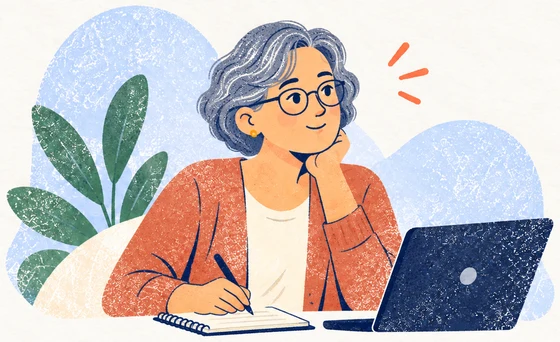
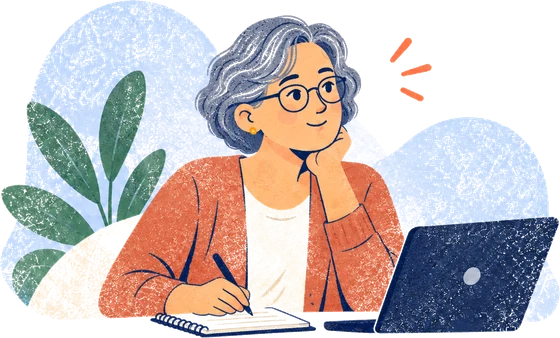
Cartes citation sur fond blanc, guillemets plus grands, corrigé du radar
Portraits et guillemets détourés (fond papier retiré) ; cartes en blanc ;
guillemets agrandis, le fermant collé au dernier mot. Cases vides du
tableau à cocher en pointillés. 1-1-2 · 3.4 : corrigé illustré avec
position par argument, verdict et jauge de score.

Changed region(s): [[0.0, 0.0, 1.0, 1.0], [0.6679, 0.1183, 0.7893, 0.3254]]

diff --git a/1-1-2/css/s3.css b/1-1-2/css/s3.css
@@ -378,7 +378,7 @@ button.k-step-dot { border: 1px solid #c9d3ea; padding: 0; }
    sous « Le client vous dit » et sous la question, progression en pastille
    (points reliés, puis « Besoin 1 sur 3 »). Les dessins ont un fond papier :
    la carte prend sa couleur pour qu’ils s’y fondent. */
-.say-page.is-moment .say-card { grid-template-columns: minmax(200px, 26%) minmax(0, 1fr); padding: 0 44px 0 0; overflow: hidden; background: #faf8f3; } /* la couleur du papier des dessins : ils se fondent dans la carte */
+.say-page.is-moment .say-card { grid-template-columns: minmax(200px, 26%) minmax(0, 1fr); padding: 0 44px 0 0; overflow: hidden; background: #fff; } /* fond blanc : la cliente et les guillemets sont détourés */
 .say-page.is-moment .say-who { border-right: 0; align-self: stretch; overflow: hidden; }
 .say-portrait { width: 100%; height: 100%; min-height: 180px; max-height: 210px; object-fit: cover; object-position: left center; }
 .say-page.is-moment .say-said { padding: 20px 0 20px 18px; }
@@ -399,4 +399,43 @@ img.say-glyph { width: 52px; height: auto; margin: 0; }
   .say-page.is-moment .say-said { padding: 16px 0 22px; }
   .say-page.is-moment .k-head { flex-direction: column; align-items: flex-start; gap: 14px; }
   .say-page.is-moment .say-progress { padding: 10px 18px; gap: 14px; }
+}
+.say-page.is-moment .say-quote { grid-template-columns: 56px minmax(0, max-content) 46px; justify-content: start; }
+@media (max-width: 760px) { .say-page.is-moment .say-quote { grid-template-columns: 34px minmax(0, max-content) 30px; } }
+.say-page.is-moment .say-quote { grid-template-columns: 56px minmax(0, 1fr); }
+.say-page.is-moment .say-quote blockquote img.say-glyph.is-closing { display: inline-block; width: 40px; margin: 0 0 0 10px; vertical-align: -.45em; }
+@media (max-width: 760px) { .say-page.is-moment .say-quote { grid-template-columns: 34px minmax(0, 1fr); } .say-page.is-moment .say-quote blockquote img.say-glyph.is-closing { width: 28px; margin-left: 6px; } }
+.say-page.is-moment .say-quote { grid-template-columns: 78px minmax(0, 1fr); gap: 10px; }
+.say-page.is-moment img.say-glyph { width: 68px; margin-top: -2px; }
+.say-page.is-moment .say-quote blockquote img.say-glyph.is-closing { width: 50px; margin-left: 12px; vertical-align: -.2em; }
+@media (max-width: 760px) { .say-page.is-moment .say-quote { grid-template-columns: 46px minmax(0, 1fr); } .say-page.is-moment img.say-glyph { width: 42px; } .say-page.is-moment .say-quote blockquote img.say-glyph.is-closing { width: 32px; } }
+
+/* 3.4 · corrigé du radar de dérive */
+.drv-review { padding: 22px 26px; display: grid; gap: 10px; }
+.drv-row { display: grid; grid-template-columns: minmax(0, 1fr) 130px 130px minmax(220px, 26%); gap: 0; align-items: stretch; border-radius: 14px; background: #fff; box-shadow: 0 4px 14px rgb(20 40 100 / 6%); }
+.drv-head { background: none; box-shadow: none; align-items: end; }
+.drv-head > span:first-child { padding: 0 18px 10px; font-weight: 800; font-size: 1.1rem; color: var(--navy); }
+.drv-col { display: grid; justify-items: center; gap: 2px; padding: 12px 6px; border-radius: 12px 12px 0 0; text-align: center; }
+.drv-col strong { color: var(--navy); } .drv-col small { font-size: .78rem; color: var(--muted); }
+.drv-col .icon { width: 26px; height: 26px; padding: 4px; border-radius: 50%; color: #fff; }
+.drv-col.is-fit { background: #e9f6ee; } .drv-col.is-fit .icon { background: #1f9a62; }
+.drv-col.is-drift { background: #fdeeec; } .drv-col.is-drift .icon { background: #e5604c; }
+.drv-arg { display: grid; grid-template-columns: 44px minmax(0, 1fr); gap: 16px; align-items: center; padding: 16px 18px; }
+.drv-arg strong { display: block; color: var(--navy); } .drv-arg small { display: block; margin-top: 3px; color: #4f5b82; line-height: 1.45; }
+.drv-n { display: grid; place-items: center; width: 40px; height: 40px; border-radius: 50%; font-weight: 800; }
+.drv-row.is-ok .drv-n { background: #e2f4ea; color: #17794f; } .drv-row.is-ko .drv-n { background: #fde3de; color: #d6452f; }
+.drv-cell { display: grid; place-items: center; border-left: 1px solid #edf0f6; }
+.drv-mark { display: grid; place-items: center; width: 44px; height: 44px; border: 1.5px solid #cdd5e4; border-radius: 50%; }
+.drv-mark.is-right { border: 0; border-radius: 12px; background: #e2f4ea; color: #17794f; }
+.drv-mark.is-wrong { border: 0; border-radius: 12px; background: #fde3de; color: #d6452f; }
+.drv-mark.is-expected { border: 2px dashed #3aa874; color: #17794f; }
+.drv-verdict { margin: 8px; padding: 12px 16px; border-radius: 12px; line-height: 1.4; }
+.drv-verdict strong { display: block; } .drv-verdict.is-ok { background: #e9f6ee; } .drv-verdict.is-ok strong { color: #17794f; }
+.drv-verdict.is-ko { background: #fdeeec; } .drv-verdict.is-ko strong { color: #d6452f; }
+.drv-score { display: flex; align-items: center; gap: 22px; flex-wrap: wrap; margin-top: 10px; padding: 16px 20px; border-left: 3px solid #d5e0f6; }
+.drv-score small { display: block; color: var(--muted); } .drv-score strong { font-size: 2rem; color: var(--navy); }
+.drv-score-symbol { display: grid; place-items: center; width: 64px; height: 64px; border-radius: 50%; background: #e6eefc; color: var(--accent); }
+.drv-score .k-muted { margin-left: auto; max-width: 300px; }
+@media (max-width: 900px) {
+  .drv-row { grid-template-columns: minmax(0, 1fr) 80px 80px; } .drv-verdict { grid-column: 1 / -1; } .drv-head > span:last-child { display: none; }
 }

diff --git a/1-1-2/js/screens/s3-3-4.js b/1-1-2/js/screens/s3-3-4.js
@@ -25,8 +25,44 @@
     </div>`;
   }
 
+  /* Le corrigé, d'après la maquette : en-tête « Corrigé » illustré, puis
+   * pour chaque argument sa position (votre choix coché vert s'il est juste,
+   * barré rouge sinon ; la bonne case en pointillés verts si vous l'avez
+   * manquée) et un verdict à droite. La jauge du score clôt le tableau. */
+  function reviewScreen(score) {
+    const label = id => (content.columns.find(c => c.id === id) || {}).label || '';
+    const mark = (i, column) => {
+      const chosen = ex.value(`row${i}`) === column.id;
+      const expected = answers[i] === column.id;
+      if (chosen) return `<span class="drv-mark ${expected ? 'is-right' : 'is-wrong'}">${icon(expected ? 'check' : 'close', { size: 22, strokeWidth: 3, label: expected ? 'votre choix, juste' : 'votre choix, faux' })}</span>`;
+      if (expected) return `<span class="drv-mark is-expected">${icon('check', { size: 18, strokeWidth: 3, label: 'réponse attendue' })}</span>`;
+      return '<span class="drv-mark"></span>';
+    };
+    return `${kit.answerReview({ subtitle: 'Voici l’analyse de chaque argument, avec la bonne position et une explication.', items: [] }).replace('<ol class="arv-list"></ol>', '')}
+      <section class="k-panel drv-review">
+        <div class="drv-row drv-head"><span>Arguments du commercial</span>${content.columns.map(c => `<span class="drv-col is-${esc(c.id)}">${icon(c.id === 'fit' ? 'check' : 'close', { size: 16, strokeWidth: 3 })}<strong>${esc(c.label)}</strong><small>${esc(c.sub)}</small></span>`).join('')}<span></span></div>
+        ${rows.map((row, i) => {
+          const ok = ex.value(`row${i}`) === answers[i];
+          return `<div class="drv-row ${ok ? 'is-ok' : 'is-ko'}">
+            <div class="drv-arg"><span class="drv-n">${i + 1}</span><div><strong>${esc(row.text)}</strong><small>${esc(row.why)}</small></div></div>
+            ${content.columns.map(c => `<span class="drv-cell">${mark(i, c)}</span>`).join('')}
+            <div class="drv-verdict ${ok ? 'is-ok' : 'is-ko'}"><strong>${ok ? 'Bon positionnement' : 'À repositionner'}</strong><span>${ok ? `Vous l’avez bien classé : « ${esc(label(answers[i]))} ».` : `Il fallait le classer : « ${esc(label(answers[i]))} ».`}</span></div>
+          </div>`;
+        }).join('')}
+        <div class="drv-score">
+          <span class="drv-score-symbol">${icon('target', { size: 34 })}</span>
+          <div><small>Votre score de dérive</small><strong>${score} / ${rows.length}</strong></div>
+          <span class="drift-gauge" aria-hidden="true">${rows.map((_, i) => `<span class="${i < score ? 'is-on' : ''}"></span>`).join('')}</span>
+          <span class="k-muted">Le score correspond au nombre d’arguments correctement analysés.</span>
+        </div>
+      </section>
+      ${core.feedbackBox()}<div class="k-utility">${kit.reset()}</div>
+    </div>`;
+  }
+
   function screen() {
     const reviewing = ex.reviewing();
+    if (reviewing) return reviewScreen(kit.score('row', answers));
     const score = reviewing ? kit.score('row', answers) : null;
     return `<div class="k-page">
       ${kit.head({ eyebrow: content.eyebrow, title: content.title, subtitle: content.subtitle, aside: counter() })}

diff --git a/1-1-2/css/extras.css b/1-1-2/css/extras.css
@@ -440,3 +440,17 @@ body .topbar, body.is-briefing .topbar { margin: 0; border: 0; border-bottom: 1p
   .client-card-quote { grid-template-columns: 34px minmax(0, 1fr) 30px; }
   .client-card-mark { width: 34px; } .client-card-mark.is-closing { width: 32px; margin-bottom: -18px; }
 }
+/* Tableau à cocher (kit.matrix) : une case vide se voit, en pointillés. */
+#main .k-matrix .k-box:not(.is-checked):not(.is-answer):not(.is-wrong) { border: 1.5px dashed #9aabd1 !important; box-shadow: none !important; background: #fff; }
+#main .k-matrix label:hover .k-box:not(.is-checked) { border-color: var(--accent) !important; }
+.client-card-quote { grid-template-columns: 56px minmax(0, max-content) 46px; justify-content: start; } /* le guillemet fermant suit le texte, même court */
+@media (max-width: 760px) { .client-card-quote { grid-template-columns: 34px minmax(0, max-content) 30px; } }
+/* Le guillemet fermant est dans le texte, collé au dernier mot. */
+.client-card-quote { grid-template-columns: 56px minmax(0, 1fr); }
+.client-card-quote blockquote .client-card-mark.is-closing { display: inline-block; width: 40px; margin: 0 0 0 10px; vertical-align: -.45em; }
+@media (max-width: 760px) { .client-card-quote { grid-template-columns: 34px minmax(0, 1fr); } .client-card-quote blockquote .client-card-mark.is-closing { width: 28px; margin-left: 6px; } }
+/* Guillemets plus présents (dessins recadrés au ras). */
+.client-card-quote { grid-template-columns: 78px minmax(0, 1fr); gap: 10px; }
+.client-card-mark { width: 68px; margin-top: -2px; }
+.client-card-quote blockquote .client-card-mark.is-closing { width: 50px; margin-left: 12px; vertical-align: -.2em; }
+@media (max-width: 760px) { .client-card-quote { grid-template-columns: 46px minmax(0, 1fr); } .client-card-mark { width: 42px; } .client-card-quote blockquote .client-card-mark.is-closing { width: 32px; } }

diff --git a/1-1-3/css/extras.css b/1-1-3/css/extras.css
@@ -421,3 +421,17 @@ body .topbar, body.is-briefing .topbar { margin: 0; border: 0; border-bottom: 1p
 }
 #main .arv-cell.is-why > svg.icon { width: 34px !important; height: 34px !important; margin: -3px -4px 0; }
 
+/* Tableau à cocher (kit.matrix) : une case vide se voit, en pointillés. */
+#main .k-matrix .k-box:not(.is-checked):not(.is-answer):not(.is-wrong) { border: 1.5px dashed #9aabd1 !important; box-shadow: none !important; background: #fff; }
+#main .k-matrix label:hover .k-box:not(.is-checked) { border-color: var(--accent) !important; }
+.client-card-quote { grid-template-columns: 56px minmax(0, max-content) 46px; justify-content: start; } /* le guillemet fermant suit le texte, même court */
+@media (max-width: 760px) { .client-card-quote { grid-template-columns: 34px minmax(0, max-content) 30px; } }
+/* Le guillemet fermant est dans le texte, collé au dernier mot. */
+.client-card-quote { grid-template-columns: 56px minmax(0, 1fr); }
+.client-card-quote blockquote .client-card-mark.is-closing { display: inline-block; width: 40px; margin: 0 0 0 10px; vertical-align: -.45em; }
+@media (max-width: 760px) { .client-card-quote { grid-template-columns: 34px minmax(0, 1fr); } .client-card-quote blockquote .client-card-mark.is-closing { width: 28px; margin-left: 6px; } }
+/* Guillemets plus présents (dessins recadrés au ras). */
+.client-card-quote { grid-template-columns: 78px minmax(0, 1fr); gap: 10px; }
+.client-card-mark { width: 68px; margin-top: -2px; }
+.client-card-quote blockquote .client-card-mark.is-closing { width: 50px; margin-left: 12px; vertical-align: -.2em; }
+@media (max-width: 760px) { .client-card-quote { grid-template-columns: 46px minmax(0, 1fr); } .client-card-mark { width: 42px; } .client-card-quote blockquote .client-card-mark.is-closing { width: 32px; } }

diff --git a/1-1-1/css/extras.css b/1-1-1/css/extras.css
@@ -319,3 +319,14 @@ body .topbar, body.is-briefing .topbar { margin: 0; border: 0; border-bottom: 1p
   .client-card-quote { grid-template-columns: 34px minmax(0, 1fr) 30px; }
   .client-card-mark { width: 34px; } .client-card-mark.is-closing { width: 32px; margin-bottom: -18px; }
 }
+.client-card-quote { grid-template-columns: 56px minmax(0, max-content) 46px; justify-content: start; } /* le guillemet fermant suit le texte, même court */
+@media (max-width: 760px) { .client-card-quote { grid-template-columns: 34px minmax(0, max-content) 30px; } }
+/* Le guillemet fermant est dans le texte, collé au dernier mot. */
+.client-card-quote { grid-template-columns: 56px minmax(0, 1fr); }
+.client-card-quote blockquote .client-card-mark.is-closing { display: inline-block; width: 40px; margin: 0 0 0 10px; vertical-align: -.45em; }
+@media (max-width: 760px) { .client-card-quote { grid-template-columns: 34px minmax(0, 1fr); } .client-card-quote blockquote .client-card-mark.is-closing { width: 28px; margin-left: 6px; } }
+/* Guillemets plus présents (dessins recadrés au ras). */
+.client-card-quote { grid-template-columns: 78px minmax(0, 1fr); gap: 10px; }
+.client-card-mark { width: 68px; margin-top: -2px; }
+.client-card-quote blockquote .client-card-mark.is-closing { width: 50px; margin-left: 12px; vertical-align: -.2em; }
+@media (max-width: 760px) { .client-card-quote { grid-template-columns: 46px minmax(0, 1fr); } .client-card-mark { width: 42px; } .client-card-quote blockquote .client-card-mark.is-closing { width: 32px; } }

diff --git a/1-1-2/js/screens/s3-3-3.js b/1-1-2/js/screens/s3-3-3.js
@@ -38,7 +38,7 @@
           <div class="say-who" aria-hidden="true"><img class="say-portrait" src="${esc(core.asset('assets/illustrations/s3/say-cliente.webp'))}" alt="" decoding="async"></div>
           <div class="say-said">
             <p class="say-label">Le client vous dit</p>
-            <div class="say-quote"><img class="say-glyph" src="${esc(core.asset('assets/illustrations/s3/say-guillemet-ouvrant.webp'))}" alt="" aria-hidden="true"><blockquote>${esc(needs[i].quote)}</blockquote><img class="say-glyph is-closing" src="${esc(core.asset('assets/illustrations/s3/say-guillemet-fermant.webp'))}" alt="" aria-hidden="true"></div>
+            <div class="say-quote"><img class="say-glyph" src="${esc(core.asset('assets/illustrations/s3/say-guillemet-ouvrant.webp'))}" alt="" aria-hidden="true"><blockquote>${esc(needs[i].quote)}<img class="say-glyph is-closing" src="${esc(core.asset('assets/illustrations/s3/say-guillemet-fermant.webp'))}" alt="" aria-hidden="true"></blockquote></div>
           </div>
         </section>
         <div class="say-choose"><h2>Quel argument répond le mieux ?</h2><span class="k-muted">${free} disponible${free > 1 ? 's' : ''} · 2 resteront inutilisés</span></div>

diff --git a/1-1-2/js/kit.js b/1-1-2/js/kit.js
@@ -132,7 +132,7 @@
       <div class="client-card-who" aria-hidden="true"><img src="${esc(core().asset(portrait))}" alt="" decoding="async"></div>
       <div class="client-card-said">
         <p class="client-card-label">${esc(label)}</p>
-        <div class="client-card-quote"><img class="client-card-mark" src="${art('guillemet-ouvrant')}" alt="" aria-hidden="true"><blockquote>${esc(clean)}</blockquote><img class="client-card-mark is-closing" src="${art('guillemet-fermant')}" alt="" aria-hidden="true"></div>
+        <div class="client-card-quote"><img class="client-card-mark" src="${art('guillemet-ouvrant')}" alt="" aria-hidden="true"><blockquote>${esc(clean)}<img class="client-card-mark is-closing" src="${art('guillemet-fermant')}" alt="" aria-hidden="true"></blockquote></div>
       </div>
     </section>`;
   };

diff --git a/1-1-3/js/kit.js b/1-1-3/js/kit.js
@@ -109,7 +109,7 @@
       <div class="client-card-who" aria-hidden="true"><img src="${esc(core().asset(portrait))}" alt="" decoding="async"></div>
       <div class="client-card-said">
         <p class="client-card-label">${esc(label)}</p>
-        <div class="client-card-quote"><img class="client-card-mark" src="${art('guillemet-ouvrant')}" alt="" aria-hidden="true"><blockquote>${esc(clean)}</blockquote><img class="client-card-mark is-closing" src="${art('guillemet-fermant')}" alt="" aria-hidden="true"></div>
+        <div class="client-card-quote"><img class="client-card-mark" src="${art('guillemet-ouvrant')}" alt="" aria-hidden="true"><blockquote>${esc(clean)}<img class="client-card-mark is-closing" src="${art('guillemet-fermant')}" alt="" aria-hidden="true"></blockquote></div>
       </div>
     </section>`;
   };

diff --git a/1-1-1/js/core.js b/1-1-1/js/core.js
@@ -179,7 +179,7 @@
       <div class="client-card-who" aria-hidden="true"><img src="${esc(asset(portrait))}" alt="" decoding="async"></div>
       <div class="client-card-said">
         <p class="client-card-label">${esc(label)}</p>
-        <div class="client-card-quote"><img class="client-card-mark" src="${art('guillemet-ouvrant')}" alt="" aria-hidden="true"><blockquote>${esc(clean)}</blockquote><img class="client-card-mark is-closing" src="${art('guillemet-fermant')}" alt="" aria-hidden="true"></div>
+        <div class="client-card-quote"><img class="client-card-mark" src="${art('guillemet-ouvrant')}" alt="" aria-hidden="true"><blockquote>${esc(clean)}<img class="client-card-mark is-closing" src="${art('guillemet-fermant')}" alt="" aria-hidden="true"></blockquote></div>
       </div>
     </section>`;
   };

diff --git a/1-1-4/css/extras.css b/1-1-4/css/extras.css
@@ -383,3 +383,6 @@ body .topbar, body.is-briefing .topbar { margin: 0; border: 0; border-bottom: 1p
 /* En-tête : le thème en gras, le nom de l'exercice (le <span>) en normal. */
 .topbar .course-label { font-weight: 800; color: var(--navy); }
 .topbar .course-label span { font-weight: 400; color: var(--muted); }
+/* Tableau à cocher (kit.matrix) : une case vide se voit, en pointillés. */
+#main .k-matrix .k-box:not(.is-checked):not(.is-answer):not(.is-wrong) { border: 1.5px dashed #9aabd1 !important; box-shadow: none !important; background: #fff; }
+#main .k-matrix label:hover .k-box:not(.is-checked) { border-color: var(--accent) !important; }
